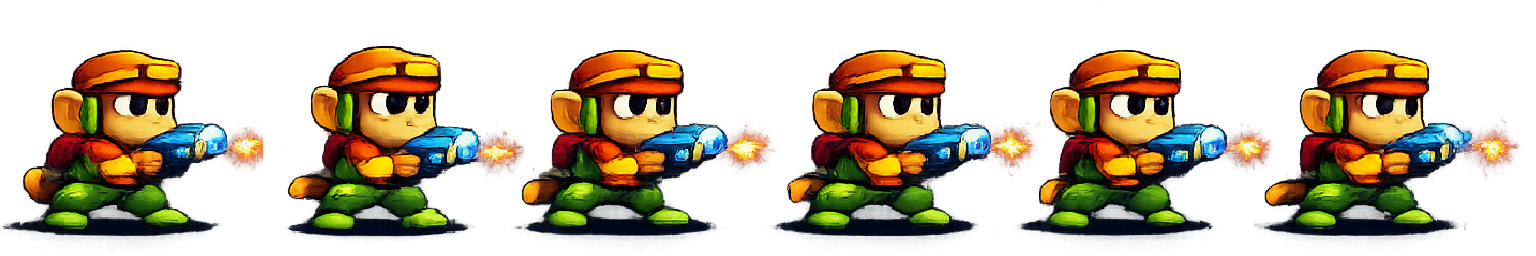
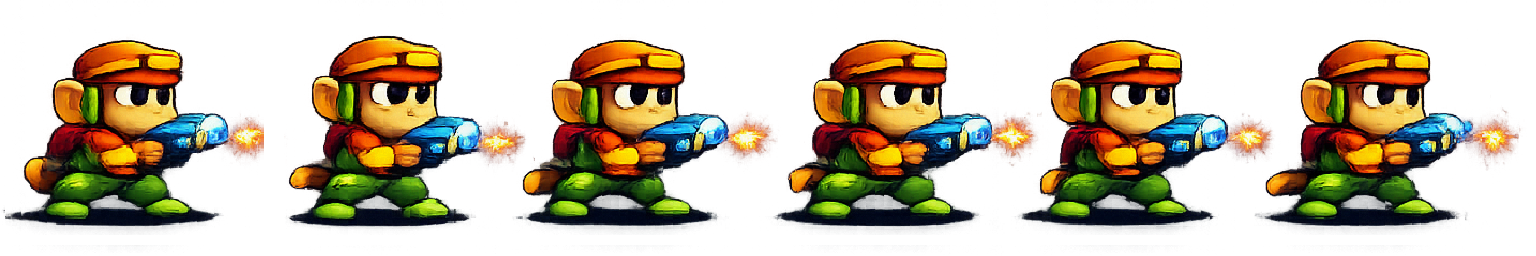
shoot up added

diff --git a/js/main.js b/js/main.js
@@ -371,6 +371,29 @@ document.addEventListener('DOMContentLoaded', () => {
     let spriteReady = false;
     kuzyImg.onload = () => spriteReady = true;
     kuzyImg.src = "img/kuzy.png";
+    
+    // Спрайты для стрельбы - 5 отдельных файлов
+    const kuzyShootImgs = [];
+    let shootSpritesReady = 0;
+    for (let i = 0; i < 5; i++) {
+        kuzyShootImgs[i] = new Image();
+        kuzyShootImgs[i].onload = () => shootSpritesReady++;
+        kuzyShootImgs[i].src = `img/shoot/${i}.png`;
+    }
+    
+    // Спрайты для стрельбы вверх - 7 отдельных файлов (0-4 для стрельбы, 5-6 для прыжка со стрельбой)
+    const kuzyShootUpImgs = [];
+    let shootUpSpritesReady = 0;
+    for (let i = 0; i < 7; i++) {
+        kuzyShootUpImgs[i] = new Image();
+        kuzyShootUpImgs[i].onload = () => shootUpSpritesReady++;
+        kuzyShootUpImgs[i].src = `img/shoot/up/${i}.png`;
+    }
+    
+    const kuzyJumpImg = new Image();
+    let jumpSpriteReady = false;
+    kuzyJumpImg.onload = () => jumpSpriteReady = true;
+    kuzyJumpImg.src = "img/kuzy_jump.png";
 
     // Sprite for Enemy 67
     const FRAME_67_W = 326;
@@ -447,17 +470,53 @@ document.addEventListener('DOMContentLoaded', () => {
                 this.lastShot = performance.now();
                 shootPlayerBullet(this);
             }
+            
+            // Выключаем режим стрельбы, если клавиша не нажата
+            if (!keys[" "]) {
+                this.shooting = false;
+            }
 
             // Consider jumping as movement for animation purposes
             const moving = keys["ArrowLeft"] || keys["ArrowRight"] || this.isJumping;
 
-            if (this.shooting) {
-                this.shootTimer += dt;
-                if (this.shootTimer > 0.15) {
-                    this.shooting = false;
-                    this.frame = SHOOT_FRAME;
+            // Логика анимации в зависимости от состояния
+            if (this.isJumping && this.shooting) {
+                // Прыжок со стрельбой
+                if (playerBulletDir === 'up') {
+                    // Стрельба вверх в прыжке: кадры 5-6 из img/shoot/up
+                    this.timer += dt;
+                    if (this.timer > 0.12) {
+                        this.frame++;
+                        if (this.frame < 5 || this.frame > 6) this.frame = 5; // циклируем 5-6
+                        this.timer = 0;
+                    }
+                } else {
+                    // Стрельба влево/вправо в прыжке: кадры 4-5 из kuzy_jump.png
+                    this.timer += dt;
+                    if (this.timer > 0.12) {
+                        this.frame++;
+                        if (this.frame < 4 || this.frame > 5) this.frame = 4; // циклируем 4-5
+                        this.timer = 0;
+                    }
+                }
+            } else if (this.isJumping && !this.shooting) {
+                // Прыжок без стрельбы: кадры 0-3 из kuzy_jump.png
+                this.timer += dt;
+                if (this.timer > 0.12) {
+                    this.frame++;
+                    if (this.frame > 3) this.frame = 0; // циклируем 0-3
+                    this.timer = 0;
+                }
+            } else if (!this.isJumping && this.shooting) {
+                // Стрельба без прыжка: кадры 0-4 из отдельных файлов
+                this.timer += dt;
+                if (this.timer > 0.12) {
+                    this.frame++;
+                    if (this.frame > 4) this.frame = 0; // циклируем 0-4 (5 кадров)
+                    this.timer = 0;
                 }
             } else if (moving) {
+                // Обычная ходьба: кадры из kuzy.png
                 this.timer += dt;
                 if (this.timer > 0.12) {
                     this.frame++;
@@ -532,7 +591,42 @@ document.addEventListener('DOMContentLoaded', () => {
          * Отрисовывает спрайт игрока на canvas
          */
         draw() {
-            if (!spriteReady) return;
+            // Определяем какой спрайт использовать
+            let useShootFiles = false; // флаг для использования отдельных файлов стрельбы
+            let useShootUpFiles = false; // флаг для использования отдельных файлов стрельбы вверх
+            let currentSprite = kuzyImg;
+            let spriteIsReady = spriteReady;
+            
+            if (this.isJumping && this.shooting) {
+                // Прыжок со стрельбой
+                if (playerBulletDir === 'up') {
+                    // Стрельба вверх в прыжке - используем отдельные файлы 5-6
+                    useShootUpFiles = true;
+                    spriteIsReady = (shootUpSpritesReady === 7);
+                } else {
+                    // Стрельба влево/вправо в прыжке
+                    currentSprite = kuzyJumpImg;
+                    spriteIsReady = jumpSpriteReady;
+                }
+            } else if (this.isJumping && !this.shooting) {
+                // Прыжок без стрельбы
+                currentSprite = kuzyJumpImg;
+                spriteIsReady = jumpSpriteReady;
+            } else if (!this.isJumping && this.shooting) {
+                // Стрельба без прыжка
+                if (playerBulletDir === 'up') {
+                    // Стрельба вверх - используем отдельные файлы 0-4
+                    useShootUpFiles = true;
+                    spriteIsReady = (shootUpSpritesReady === 7);
+                } else {
+                    // Стрельба влево/вправо - используем отдельные файлы
+                    useShootFiles = true;
+                    spriteIsReady = (shootSpritesReady === 5);
+                }
+            }
+            // Иначе используется обычный спрайт ходьбы (kuzyImg)
+            
+            if (!spriteIsReady) return;
             
             ctx.save();
             
@@ -541,30 +635,87 @@ document.addEventListener('DOMContentLoaded', () => {
                 // Переворачиваем по горизонтали
                 ctx.translate(this.x + this.w, this.y);
                 ctx.scale(-1, 1);
-                ctx.drawImage(
-                    kuzyImg,
-                    this.frame * FRAME_W,
-                    0,
-                    FRAME_W,
-                    FRAME_H,
-                    0,
-                    0,
-                    this.w,
-                    this.h
-                );
+                
+                if (useShootFiles) {
+                    // Используем отдельный файл по индексу кадра
+                    const shootFrame = Math.min(this.frame, 4); // ограничиваем 0-4
+                    ctx.drawImage(
+                        kuzyShootImgs[shootFrame],
+                        0,
+                        0,
+                        this.w,
+                        this.h
+                    );
+                } else if (useShootUpFiles) {
+                    // Стрельба вверх (не зеркалится)
+                    // Если в прыжке - кадры 5-6, иначе 0-4
+                    let shootFrame = this.frame;
+                    if (this.isJumping) {
+                        shootFrame = Math.max(5, Math.min(this.frame, 6)); // ограничиваем 5-6
+                    } else {
+                        shootFrame = Math.min(this.frame, 4); // ограничиваем 0-4
+                    }
+                    ctx.drawImage(
+                        kuzyShootUpImgs[shootFrame],
+                        0,
+                        0,
+                        this.w,
+                        this.h
+                    );
+                } else {
+                    ctx.drawImage(
+                        currentSprite,
+                        this.frame * FRAME_W,
+                        0,
+                        FRAME_W,
+                        FRAME_H,
+                        0,
+                        0,
+                        this.w,
+                        this.h
+                    );
+                }
             } else {
                 // Обычное отображение (вправо или вверх)
-                ctx.drawImage(
-                    kuzyImg,
-                    this.frame * FRAME_W,
-                    0,
-                    FRAME_W,
-                    FRAME_H,
-                    this.x,
-                    this.y,
-                    this.w,
-                    this.h
-                );
+                if (useShootFiles) {
+                    // Используем отдельный файл по индексу кадра
+                    const shootFrame = Math.min(this.frame, 4); // ограничиваем 0-4
+                    ctx.drawImage(
+                        kuzyShootImgs[shootFrame],
+                        this.x,
+                        this.y,
+                        this.w,
+                        this.h
+                    );
+                } else if (useShootUpFiles) {
+                    // Стрельба вверх
+                    // Если в прыжке - кадры 5-6, иначе 0-4
+                    let shootFrame = this.frame;
+                    if (this.isJumping) {
+                        shootFrame = Math.max(5, Math.min(this.frame, 6)); // ограничиваем 5-6
+                    } else {
+                        shootFrame = Math.min(this.frame, 4); // ограничиваем 0-4
+                    }
+                    ctx.drawImage(
+                        kuzyShootUpImgs[shootFrame],
+                        this.x,
+                        this.y,
+                        this.w,
+                        this.h
+                    );
+                } else {
+                    ctx.drawImage(
+                        currentSprite,
+                        this.frame * FRAME_W,
+                        0,
+                        FRAME_W,
+                        FRAME_H,
+                        this.x,
+                        this.y,
+                        this.w,
+                        this.h
+                    );
+                }
             }
             
             ctx.restore();
